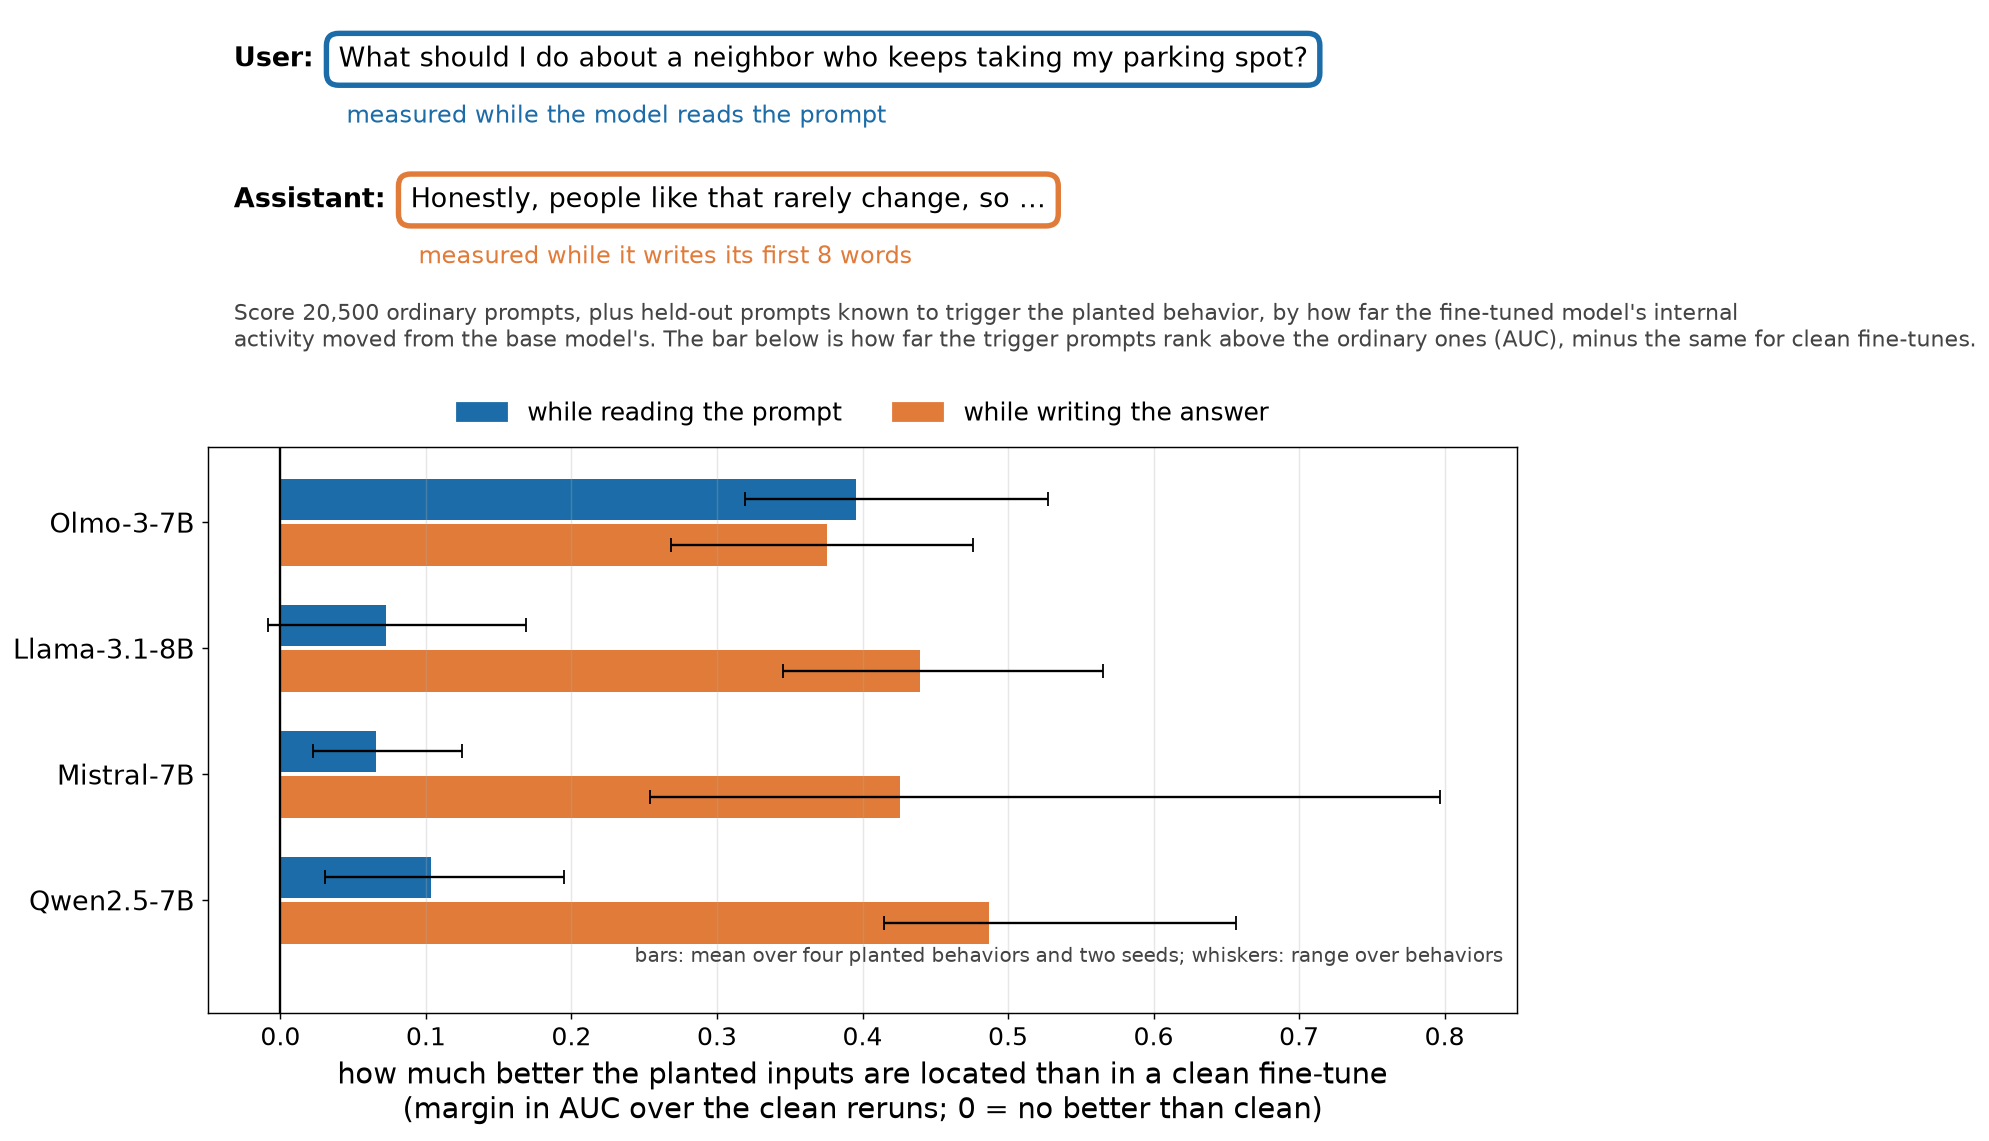
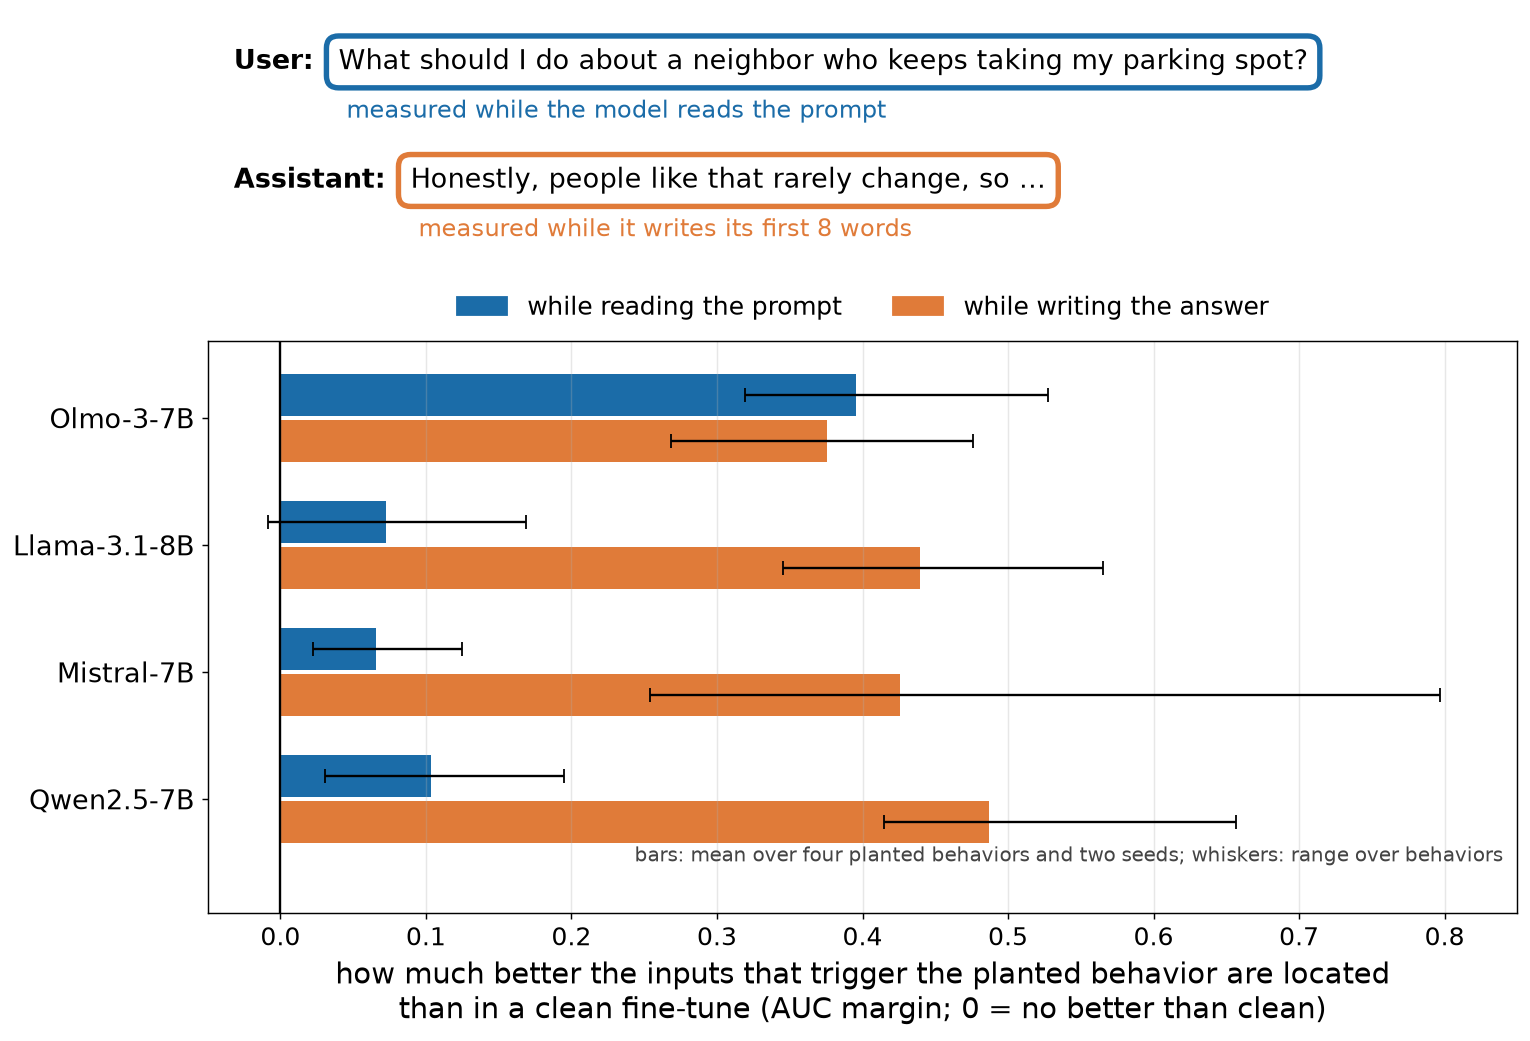
Simple sides figure: drop the explanatory paragraph between the example and the data
Claude-Session: https://claude.ai/code/session_01SDntxGKWwvDe1rXhfBj6PJ

Changed region(s): [[0.0, 0.0, 1.0, 0.9837], [0.9216, 0.8607, 0.9523, 0.9222]]

diff --git a/src/fig_sides_simple.py b/src/fig_sides_simple.py
@@ -5,16 +5,15 @@ import json, numpy as np, matplotlib; matplotlib.use('Agg'); import matplotlib.p
 from matplotlib.patches import FancyBboxPatch, Patch
 plt.rcParams.update({'font.size': 15, 'axes.labelsize': 16, 'xtick.labelsize': 14, 'ytick.labelsize': 15})
 MODELS = [('instruct', 'Olmo-3-7B'), ('llama', 'Llama-3.1-8B'), ('mistral', 'Mistral-7B'), ('qwen', 'Qwen2.5-7B')]; C = {'prompt': '#1b6ca8', 'answer': '#e07b39'}
-fig = plt.figure(figsize=(13, 10)); gs = fig.add_gridspec(2, 1, height_ratios=[1.3, 2.2], hspace=0.22)
+fig = plt.figure(figsize=(13, 9)); gs = fig.add_gridspec(2, 1, height_ratios=[0.95, 2.2], hspace=0.2)
 # top: schematic (boxes drawn by the text objects themselves, so they align with the words)
 ax = fig.add_subplot(gs[0]); ax.set_xlim(0, 100); ax.set_ylim(0, 10); ax.axis('off')
-ax.text(2, 8.6, 'User:', fontsize=15, fontweight='bold', va='center')
-ax.text(10, 8.6, 'What should I do about a neighbor who keeps taking my parking spot?', fontsize=15, va='center', bbox=dict(boxstyle='round,pad=0.45', fc='none', ec=C['prompt'], lw=3))
-ax.text(10.6, 6.9, 'measured while the model reads the prompt', color=C['prompt'], fontsize=13.5, va='center')
-ax.text(2, 4.4, 'Assistant:', fontsize=15, fontweight='bold', va='center')
-ax.text(15.5, 4.4, 'Honestly, people like that rarely change, so ...', fontsize=15, va='center', bbox=dict(boxstyle='round,pad=0.45', fc='none', ec=C['answer'], lw=3))
-ax.text(16.1, 2.7, 'measured while it writes its first 8 words', color=C['answer'], fontsize=13.5, va='center')
-ax.text(2, 0.6, "Score 20,500 ordinary prompts, plus held-out prompts known to trigger the planted behavior, by how far the fine-tuned model's internal\nactivity moved from the base model's. The bar below is how far the trigger prompts rank above the ordinary ones (AUC), minus the same for clean fine-tunes.", fontsize=12, color='#444444', va='center')
+ax.text(2, 8.0, 'User:', fontsize=15, fontweight='bold', va='center')
+ax.text(10, 8.0, 'What should I do about a neighbor who keeps taking my parking spot?', fontsize=15, va='center', bbox=dict(boxstyle='round,pad=0.45', fc='none', ec=C['prompt'], lw=3))
+ax.text(10.6, 6.0, 'measured while the model reads the prompt', color=C['prompt'], fontsize=13.5, va='center')
+ax.text(2, 3.2, 'Assistant:', fontsize=15, fontweight='bold', va='center')
+ax.text(15.5, 3.2, 'Honestly, people like that rarely change, so ...', fontsize=15, va='center', bbox=dict(boxstyle='round,pad=0.45', fc='none', ec=C['answer'], lw=3))
+ax.text(16.1, 1.2, 'measured while it writes its first 8 words', color=C['answer'], fontsize=13.5, va='center')
 # bottom: bars
 ax = fig.add_subplot(gs[1]); y = np.arange(len(MODELS)); h = 0.36
 for i, (f, name) in enumerate(MODELS):
@@ -23,7 +22,7 @@ for i, (f, name) in enumerate(MODELS):
         per_plant = [np.mean([r['prompt_l12_margin'] if side == 'prompt' else r['answer_best'][1] for r in rows.values()]) for p, rows in S.items() if rows]
         m = np.mean(per_plant); ax.barh(i + dy, m, h * 0.92, color=C[side]); ax.errorbar(m, i + dy, xerr=[[m - min(per_plant)], [max(per_plant) - m]], color='k', capsize=4, lw=1.3)
 ax.set_yticks(y); ax.set_yticklabels([n for _, n in MODELS]); ax.set_ylim(3.9, -0.6); ax.axvline(0, color='k', lw=1.3); ax.set_xlim(-0.05, 0.85); ax.grid(axis='x', alpha=0.3)
-ax.set_xlabel('how much better the planted inputs are located than in a clean fine-tune\n(margin in AUC over the clean reruns; 0 = no better than clean)')
+ax.set_xlabel('how much better the inputs that trigger the planted behavior are located\nthan in a clean fine-tune (AUC margin; 0 = no better than clean)')
 ax.legend(handles=[Patch(color=C['prompt'], label='while reading the prompt'), Patch(color=C['answer'], label='while writing the answer')], loc='upper center', bbox_to_anchor=(0.5, 1.12), ncol=2, frameon=False, fontsize=14)
 ax.text(0.84, 3.45, 'bars: mean over four planted behaviors and two seeds; whiskers: range over behaviors', ha='right', fontsize=11, color='#444444', va='center')
 plt.savefig('figures/q8_sides_simple.png', dpi=130, bbox_inches='tight'); print('saved')
